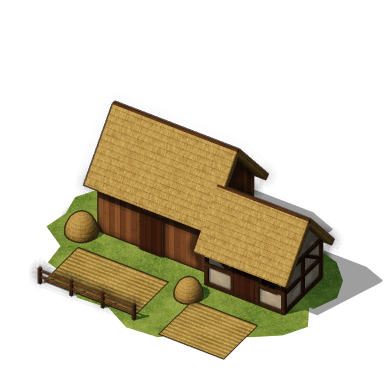
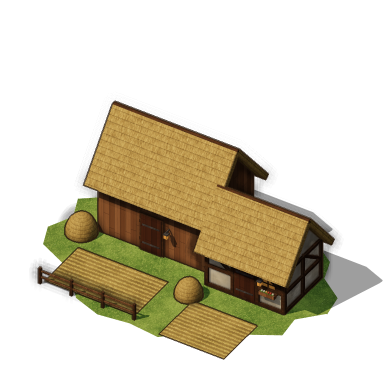
Bâtiments du village : fenêtres éclairées, volets, jardinières, lanternes et bannières dorées
Claude-Session: https://claude.ai/code/session_01YZKTPKwJXo2S9M5mMSsicH

diff --git a/tools/render/kit.js b/tools/render/kit.js
@@ -166,21 +166,50 @@ export function halfTimbered(w, h, d, x = 0, y = 0, z = 0) {
   return g;
 }
 
+/** Lueur chaude des fenêtres et lanternes (heure dorée : le village est habité). */
+const GLOW = new THREE.MeshStandardMaterial({ color: 0x3a2412, emissive: 0xffa040, emissiveIntensity: 0.5, roughness: 0.4 });
+const FLOWERS = [0xc0392b, 0xe8a33a, 0xd94f8a, 0xf2e3b0];
+
+/** Petite lanterne en fer sur potence, allumée. */
+export function lantern(x = 0, y = 0, z = 0) {
+  return group(
+    box(0.06, 0.06, 0.3, 'iron', x, y + 0.42, z + 0.15),
+    box(0.04, 0.12, 0.04, 'iron', x, y + 0.36, z + 0.28),
+    place(mesh(new THREE.BoxGeometry(0.18, 0.24, 0.18), GLOW), x, y + 0.22, z + 0.28),
+    box(0.24, 0.05, 0.24, 'iron', x, y + 0.33, z + 0.28),
+  );
+}
+
 export function door(w = 1.1, h = 2, tex = 'planks') {
   const g = new THREE.Group();
   g.add(box(w + 0.24, h + 0.12, 0.12, 'timber', 0, 0, 0));
   const d = box(w, h, 0.16, tex, 0, 0, 0.02, { color: 0x9a8070 });
   g.add(d);
+  // Pentures en fer forgé et lanterne à côté de l'entrée.
+  for (const y of [h * 0.22, h * 0.72]) g.add(box(w * 0.86, 0.07, 0.04, 'iron', 0, y, 0.12));
+  g.add(lantern(w / 2 + 0.4, h * 0.62, 0));
   return g;
 }
 
-export function windowPane(w = 0.7, h = 0.8) {
+export function windowPane(w = 0.7, h = 0.8, { flowers = rand() < 0.65, shutters = true } = {}) {
   const g = new THREE.Group();
   g.add(box(w + 0.2, h + 0.2, 0.1, 'timber'));
   const glass = box(w, h, 0.12, 'timber', 0, 0.1, 0.01);
-  glass.material = plain(0x1c1712, 0.4);
+  glass.material = GLOW;
   g.add(glass);
   g.add(box(0.06, h, 0.14, 'timber', 0, 0.1, 0.02));
+  g.add(box(w, 0.06, 0.14, 'timber', 0, 0.1 + h / 2 - 0.03, 0.02));
+  if (shutters)
+    for (const s of [-1, 1]) g.add(box(w / 2 + 0.04, h + 0.12, 0.06, 'planks', s * (w / 2 + 0.1 + w / 4 + 0.02), 0.04, 0.04, { color: 0x7d8c62 }));
+  g.add(box(w + 0.36, 0.08, 0.22, 'timber', 0, 0.02, 0.08));
+  if (flowers) {
+    g.add(box(w + 0.16, 0.2, 0.22, 'planks', 0, -0.2, 0.14));
+    for (let i = 0; i < 6; i++) {
+      const fx = -w / 2 + 0.05 + (i * (w - 0.1)) / 5;
+      g.add(place(mesh(new THREE.IcosahedronGeometry(0.09, 0), plain(0x4f7a2c, 0.9)), fx, 0.02, 0.16));
+      g.add(place(mesh(new THREE.IcosahedronGeometry(0.06, 0), plain(FLOWERS[Math.floor(rand() * FLOWERS.length)], 0.7)), fx + 0.04, 0.09, 0.2));
+    }
+  }
   return g;
 }
 

diff --git a/tools/render/buildings.js b/tools/render/buildings.js
@@ -31,7 +31,14 @@ function hangingBanner(color, x, y, z, w = 0.8, h = 1.6) {
   const geo = new THREE.PlaneGeometry(w, h, 4, 6);
   const m = mesh(geo, new THREE.MeshStandardMaterial({ color, roughness: 0.85, side: THREE.DoubleSide }));
   m.position.set(x, y - h / 2, z);
-  const g = group(m, box(w + 0.2, 0.08, 0.08, 'timber', x, y, z));
+  // Liseré et médaillon dorés, comme les titres de l'interface.
+  const gold = plain(0xd4a531, 0.45);
+  const trim = mesh(new THREE.BoxGeometry(w, 0.1, 0.03), gold);
+  trim.position.set(x, y - h + 0.06, z + 0.02);
+  const disc = mesh(new THREE.CylinderGeometry(w * 0.22, w * 0.22, 0.03, 16), gold);
+  disc.rotation.x = Math.PI / 2;
+  disc.position.set(x, y - h * 0.45, z + 0.02);
+  const g = group(m, trim, disc, box(w + 0.2, 0.08, 0.08, 'timber', x, y, z));
   return g;
 }
 
@@ -428,6 +435,10 @@ export const BUILDERS = {
       at(gableRoof(8.4, 5.4, 2.8, 'tiles', 'plaster', { overhang: 0.45 }), 0, 5.6, 0),
       at(door(2.4, 2.6), -1.2, 0, 2.83),
       at(door(1.2, 1.6, 'planks'), 2.2, 3.4, 2.73),
+      at(windowPane(0.7, 0.9), -2.4, 3.6, 2.76),
+      at(windowPane(0.6, 0.8), -3, 1.1, 2.83),
+      chimney(-2.6, 6.6, -1.2, 1.6),
+      smoke(-2.6, 8.4, -1.2),
       box(0.25, 0.25, 1.8, 'timber', 2.2, 5.2, 3.3),
       box(0.03, 1.6, 0.03, 'timber', 2.2, 3.6, 4.1),
       crate(0.7, 2.2, 2.9, 4.1),

diff --git a/docs/CHARTE-GRAPHIQUE.md b/docs/CHARTE-GRAPHIQUE.md
@@ -68,6 +68,7 @@ Rendues par `tools/render` (three.js dans Chromium, `node render.mjs [filtre]`),
 - **Trait d'encre** `rgb(38 24 14)` sur les arêtes et le contour (normales + profondeur), façon illustration.
 - **Occlusion ambiante** sur les creux, pieds de murs et dessous de toits, et ombre de contact au sol.
 - Tuiles en terre cuite patinée (`#86361f → #a94f34`), ardoise bleu-gris, chaume doré, pierre beige-gris.
+- Détails de vie sur les bâtiments : fenêtres éclairées de l'intérieur (vitre ambrée émissive `#ffa040`, croisillon), volets en planches vert-de-gris `#7d8c62`, appuis et jardinières fleuries, portes ferrées avec lanterne, bannières bordées d'or avec disque doré (`tools/render/kit.js`).
 - La porte de la muraille est tournée de 32° pour s'aligner sur l'enceinte (tracée face à l'écran).
 - Côté page, le décor reçoit en plus un voile chaud (`.vv-light`, `mix-blend-mode: soft-light`), des ombres de nuages lentes et une vignette.
 
